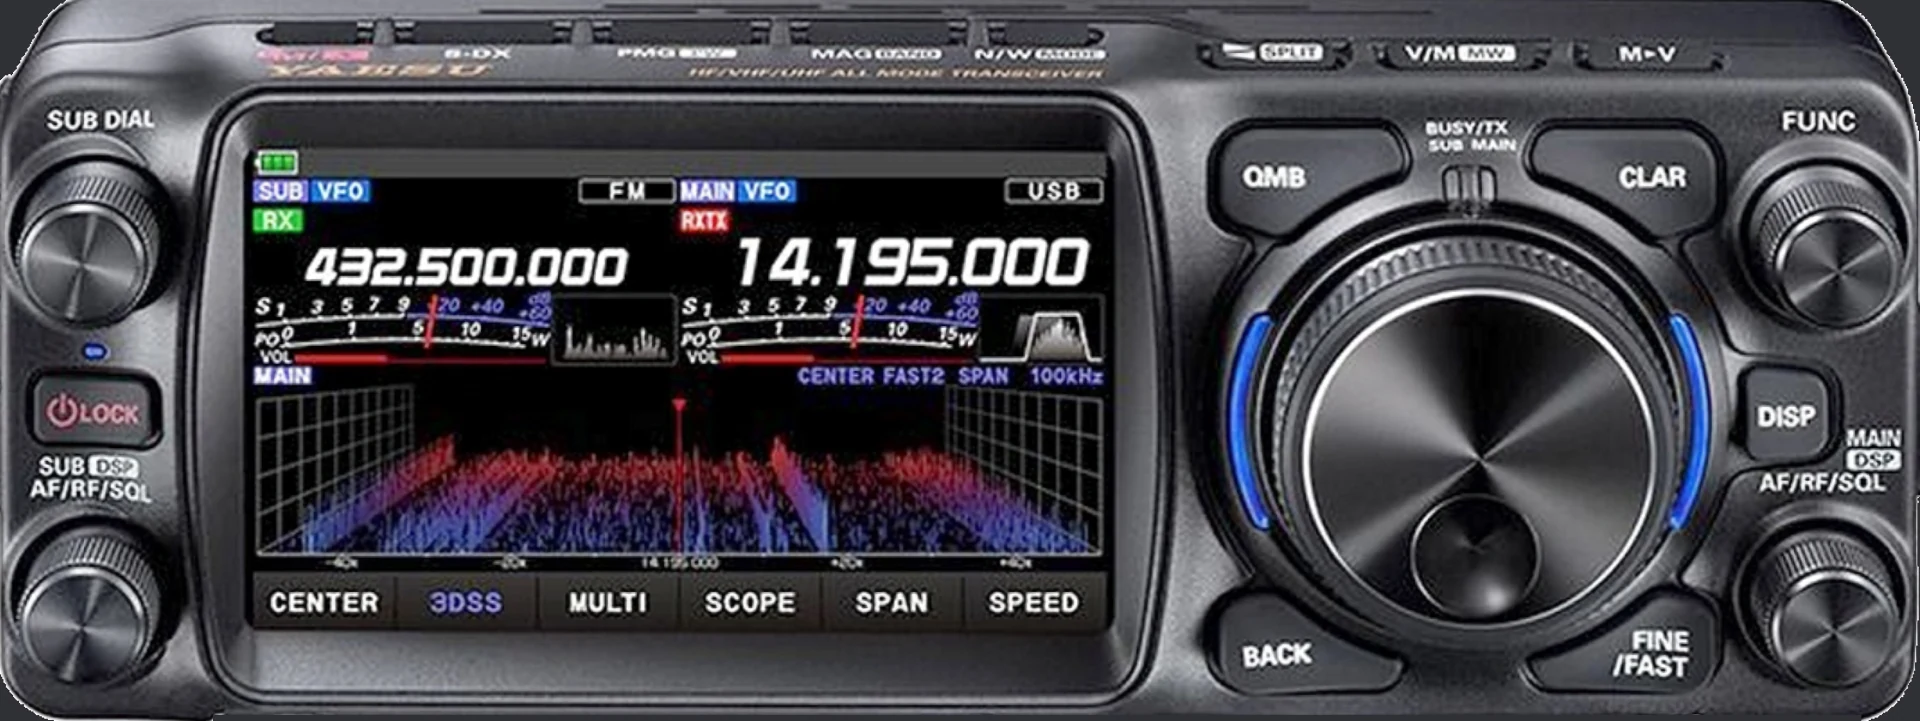
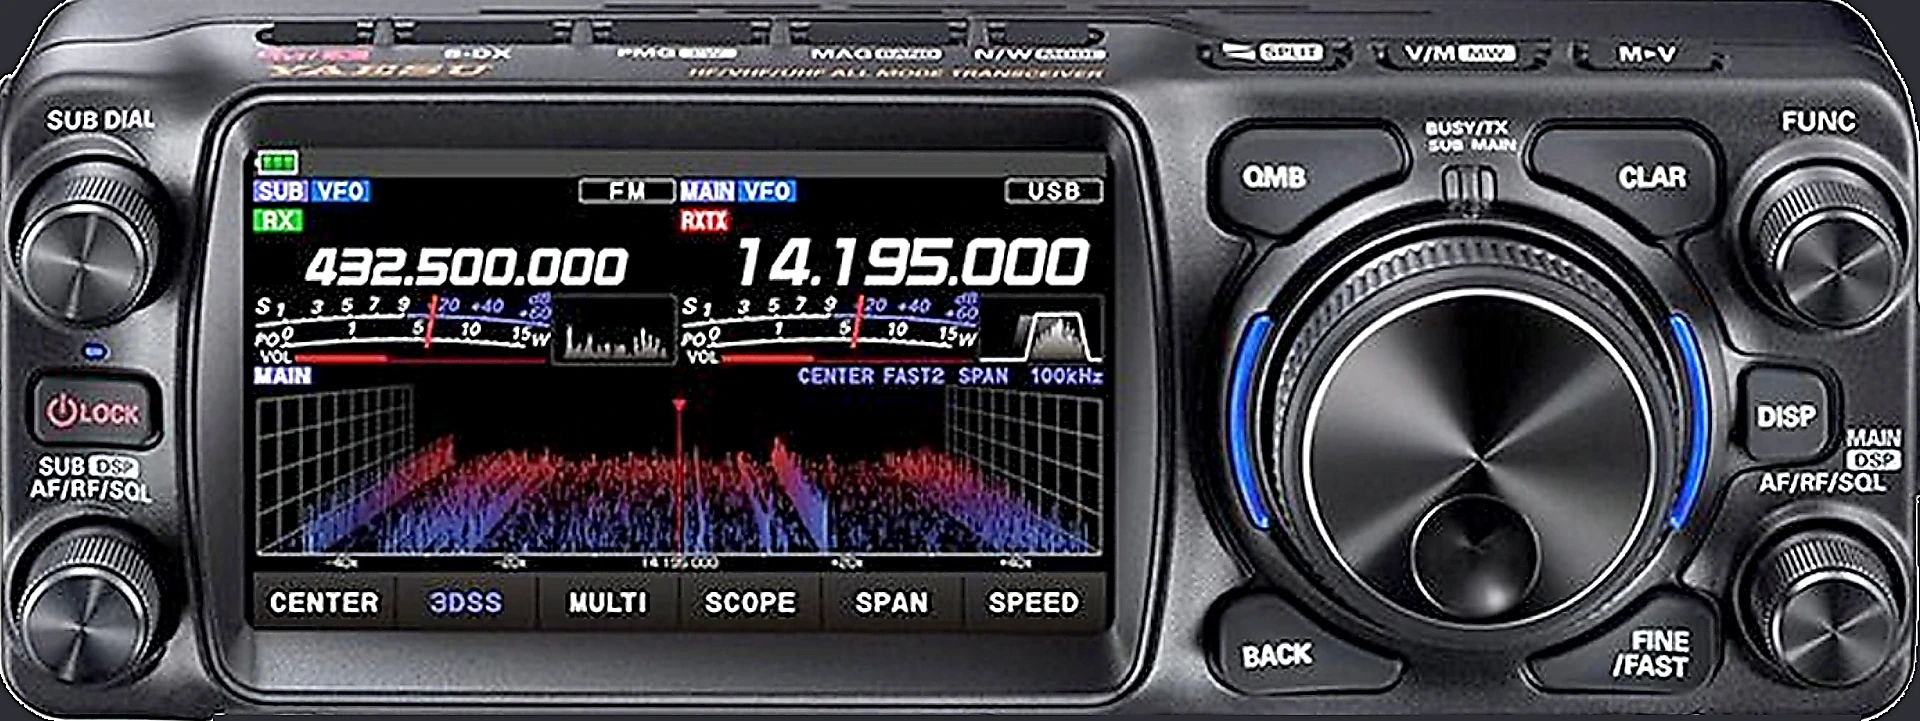
0.37.112 : 0.37.112 : FTX-1 photo plus nette
Claude-Session: https://claude.ai/code/session_012Nhne2whzwcBifbkas5HRy

diff --git a/LISEZMOI.md b/LISEZMOI.md
@@ -1,4 +1,4 @@
-# Remote Station — v0.37.111 (CAT + écoute de la BF)
+# Remote Station — v0.37.112 (CAT + écoute de la BF)
 
 > **Administrateurs : le guide à jour est [GUIDE-ADMINISTRATEUR.md](GUIDE-ADMINISTRATEUR.md).** Ce fichier garde les notes techniques détaillées ; certaines étapes y décrivent d'anciennes versions (jeton à coller, audio 8 kHz…).
 
@@ -90,7 +90,7 @@ L'émission est **désactivée par défaut** (`"allowTx": false`). On l'active s
 
 ## 1. Installation sur le VPS VEX
 
-Copie `remote-station-0.37.111.tar.gz` dans `/home/on6dp` avec WinSCP, puis dans PuTTY :
+Copie `remote-station-0.37.112.tar.gz` dans `/home/on6dp` avec WinSCP, puis dans PuTTY :
 
 ```bash
 # Node.js (Debian 13 fournit la version 20, ça suffit)
@@ -98,7 +98,7 @@ sudo apt update && sudo apt install -y nodejs
 node -v
 
 # Fichiers + utilisateur système dédié
-sudo tar -xzf /home/on6dp/remote-station-0.37.111.tar.gz -C /opt
+sudo tar -xzf /home/on6dp/remote-station-0.37.112.tar.gz -C /opt
 sudo useradd --system --home /opt/remote-station --shell /usr/sbin/nologin remotestation
 sudo chown -R remotestation:remotestation /opt/remote-station
 cd /opt/remote-station

diff --git a/releases/README.md b/releases/README.md
@@ -2,6 +2,7 @@
 
 | Version | Windows 10 / 11 | Serveur Linux (VPS) | Notes |
 |---|---|---|---|
+| 0.37.112 | [RemoteStation-Setup-0.37.112.exe](0.37.112/RemoteStation-Setup-0.37.112.exe) | [remote-station-0.37.112.tar.gz](0.37.112/remote-station-0.37.112.tar.gz) | Ctrl+F5 sur la page /ftx1 — [empreintes SHA-256](0.37.112/SHA256SUMS.txt) |
 | 0.37.111 | [RemoteStation-Setup-0.37.111.exe](0.37.111/RemoteStation-Setup-0.37.111.exe) | [remote-station-0.37.111.tar.gz](0.37.111/remote-station-0.37.111.tar.gz) | Ctrl+F5 sur la page /ftx1 — [empreintes SHA-256](0.37.111/SHA256SUMS.txt) |
 | 0.37.110 | [RemoteStation-Setup-0.37.110.exe](0.37.110/RemoteStation-Setup-0.37.110.exe) | [remote-station-0.37.110.tar.gz](0.37.110/remote-station-0.37.110.tar.gz) | Ctrl+F5 sur la page /ftx1 — [empreintes SHA-256](0.37.110/SHA256SUMS.txt) |
 | 0.37.109 | [RemoteStation-Setup-0.37.109.exe](0.37.109/RemoteStation-Setup-0.37.109.exe) | [remote-station-0.37.109.tar.gz](0.37.109/remote-station-0.37.109.tar.gz) | Ctrl+F5 sur la page /ftx1 — [empreintes SHA-256](0.37.109/SHA256SUMS.txt) |

diff --git a/CHANGELOG.md b/CHANGELOG.md
@@ -2,6 +2,7 @@
 
 ## v0.15 — FT2
 
+- **0.37.112** — FTX-1 : photo de la face avant plus nette (refaite depuis l'original, accentuation, meilleure qualité)
 - **0.37.111** — FTX-1 : D-MODE CENTER comme le TRX : seulement la barre rouge (au milieu sans SPLIT ; en SPLIT à la fréquence d'émission, elle se déplace quand on tourne le grand bouton)
 - **0.37.110** — FTX-1 : appui d'1 s sur SPLIT comme le TRX (l'autre VFO prend la même fréquence, SPLIT en service : émission là, le grand bouton déplace l'écoute) ; scope : ▼ vert de l'écoute avec son trait vert
 - **0.37.109** — FTX-1 : scope en fenêtre de fréquences comme le TRX selon D-MODE et SPAN : CENTER (fréquence au milieu, ▼ rouge au centre), CURSOR (fenêtre fixe, ▼ vert/rouge qui s'y déplace), FIX (fenêtre au début de la bande, R ▶ / T ▶ au bord quand on est en dehors) ; le son reçu est placé à sa vraie fréquence ; 3DSS pareil

diff --git a/README.md b/README.md
@@ -11,7 +11,7 @@ Pilotage à distance des transceivers du club depuis un navigateur.
  TRX ──USB──► PC du club (Chrome, page /station) ──internet──► VPS remote.op0p.be ◄── membres (navigateur)
 ```
 
-**Version actuelle : 0.37.111** — historique dans [CHANGELOG.md](CHANGELOG.md).
+**Version actuelle : 0.37.112** — historique dans [CHANGELOG.md](CHANGELOG.md).
 
 **Télécharger une version prête à installer** : dossier [releases/](releases/README.md) du dépôt. Chaque version y a son archive serveur
 `remote-station-X.Y.Z.tar.gz`, son installateur Windows `RemoteStation-Setup-X.Y.Z.exe` et le fichier `SHA256SUMS.txt` des empreintes.
